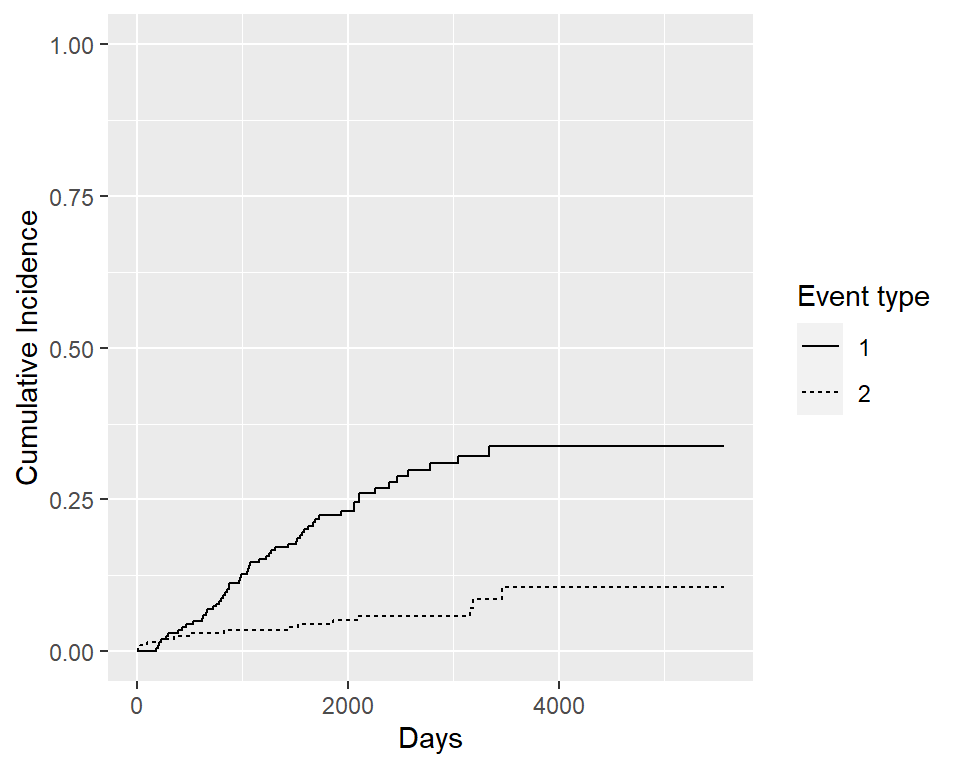
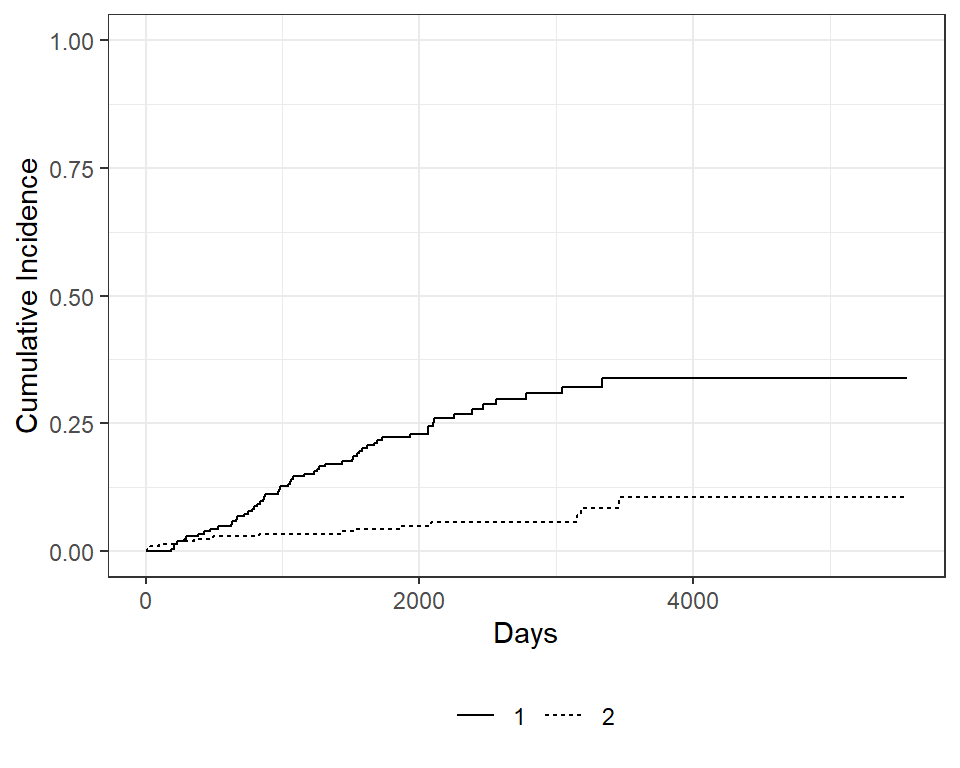
fixing a typo

diff --git a/survival_analysis_in_r_tutorial.html b/survival_analysis_in_r_tutorial.html
@@ -520,6 +520,7 @@ class="math inline">\(S(t_0) = 1\)</span>.</p>
 <p>In this section, we will use the following packages:</p>
 <pre class="r"><code># install.packages(c(&quot;survival&quot;, &quot;lubridate&quot;, &quot;ggsurvfit&quot;, &quot;gtsummary&quot;, &quot;tidycmprsk&quot;))
 # remotes::install_github(&quot;zabore/condsurv&quot;)
+# remotes::install_github(&quot;zabore/ezfun&quot;)
 library(survival)
 library(lubridate)
 library(ggsurvfit)
@@ -698,14 +699,17 @@ for details.</p>
 base R or the {survminer} package.</p>
 <p>The {ggsurvfit} package works best if you create the
 <code>survfit</code> object using the included
-<code>ggsurvfit::survfit2()</code> function, which uses similar syntax
-to what we saw previously with <code>survival::survfit()</code>.</p>
+<code>ggsurvfit::survfit2()</code> function, which uses the same syntax
+to what we saw previously with <code>survival::survfit()</code>. The
+<code>ggsurvfit::survfit2()</code> tracks the environment from the
+function call, which allows the plot to have better default values for
+labeling and p-value reporting.</p>
 <pre class="r"><code>survfit2(Surv(time, status) ~ 1, data = lung) %&gt;% 
   ggsurvfit() +
   labs(
     x = &quot;Days&quot;,
     y = &quot;Overall survival probability&quot;
-    )</code></pre>
+  )</code></pre>
 <p><img src="survival_analysis_in_r_tutorial_files/figure-html/unnamed-chunk-4-1.png" width="480" /></p>
 <p>The default plot in <code>ggsurvfit()</code> shows the step function
 only. We can add the confidence interval using
@@ -715,12 +719,12 @@ only. We can add the confidence interval using
   labs(
     x = &quot;Days&quot;,
     y = &quot;Overall survival probability&quot;
-    ) + 
+  ) + 
   add_confidence_interval()</code></pre>
 <p><img src="survival_analysis_in_r_tutorial_files/figure-html/unnamed-chunk-5-1.png" width="480" /></p>
 <p>Typically we will also want to see the numbers at risk in a table
 below the x-axis. We can add this using
-<code>add_risk_table()</code>:</p>
+<code>add_risktable()</code>:</p>
 <pre class="r"><code>survfit2(Surv(time, status) ~ 1, data = lung) %&gt;% 
   ggsurvfit() +
   labs(
@@ -785,7 +789,7 @@ package:</p>
 <pre class="r"><code>survfit(Surv(time, status) ~ 1, data = lung) %&gt;% 
   tbl_survfit(
     times = 365.25,
-    label_header = &quot;1-year survival (95% CI)&quot;
+    label_header = &quot;**1-year survival (95% CI)**&quot;
   )</code></pre>
 <div id="thodvqsjjd" style="overflow-x:auto;overflow-y:auto;width:auto;height:auto;">
 <style>html {
@@ -1197,7 +1201,7 @@ package:</p>
   <thead class="gt_col_headings">
     <tr>
       <th class="gt_col_heading gt_columns_bottom_border gt_left" rowspan="1" colspan="1" scope="col"><strong>Characteristic</strong></th>
-      <th class="gt_col_heading gt_columns_bottom_border gt_center" rowspan="1" colspan="1" scope="col">1-year survival (95% CI)</th>
+      <th class="gt_col_heading gt_columns_bottom_border gt_center" rowspan="1" colspan="1" scope="col"><strong>1-year survival (95% CI)</strong></th>
     </tr>
   </thead>
   <tbody class="gt_table_body">
@@ -1253,7 +1257,7 @@ package:</p>
 <pre class="r"><code>survfit(Surv(time, status) ~ 1, data = lung) %&gt;% 
   tbl_survfit(
     probs = 0.5,
-    label_header = &quot;Median survival (95% CI)&quot;
+    label_header = &quot;**Median survival (95% CI)**&quot;
   )</code></pre>
 <div id="mpqwnvornv" style="overflow-x:auto;overflow-y:auto;width:auto;height:auto;">
 <style>html {
@@ -1665,7 +1669,7 @@ package:</p>
   <thead class="gt_col_headings">
     <tr>
       <th class="gt_col_heading gt_columns_bottom_border gt_left" rowspan="1" colspan="1" scope="col"><strong>Characteristic</strong></th>
-      <th class="gt_col_heading gt_columns_bottom_border gt_center" rowspan="1" colspan="1" scope="col">Median survival (95% CI)</th>
+      <th class="gt_col_heading gt_columns_bottom_border gt_center" rowspan="1" colspan="1" scope="col"><strong>Median survival (95% CI)</strong></th>
     </tr>
   </thead>
   <tbody class="gt_table_body">
@@ -3388,16 +3392,14 @@ death from melanoma:</p>
   add_confidence_interval() +
   add_risktable()</code></pre>
 <p><img src="survival_analysis_in_r_tutorial_files/figure-html/unnamed-chunk-33-1.png" width="480" /></p>
-<p>If we want to include both event types, we can call the
-<code>autoplot()</code> function from the {tidycmprsk} package:</p>
+<p>If we want to include both event types, specify the outcomes in the
+<code>ggcuminc(outcome=)</code> argument:</p>
 <pre class="r"><code>cuminc(Surv(time, status) ~ 1, data = Melanoma) %&gt;% 
-  autoplot(outcomes = c(&quot;1&quot;, &quot;2&quot;)) + 
+  ggcuminc(outcome = c(&quot;1&quot;, &quot;2&quot;)) +
+  ylim(c(0, 1)) + 
   labs(
-    x = &quot;Days&quot;,
-    y = &quot;Cumulative Incidence&quot;,
-    linetype = &quot;Event type&quot;
-  ) +
-  ylim(c(0, 1))</code></pre>
+    x = &quot;Days&quot;
+  )</code></pre>
 <p><img src="survival_analysis_in_r_tutorial_files/figure-html/unnamed-chunk-34-1.png" width="480" /></p>
 <p>Now let’s say we wanted to examine death from melanoma or other
 causes in the <code>Melanoma</code> data, according to
@@ -4842,7 +4844,8 @@ a continuous variable. The <code>sm.survival</code> function from the
 <code>sm</code> package allows you to do this for a quantile of the
 distribution of survival data. The default quantile is
 <code>p = 0.5</code> for median survival.</p>
-<pre class="r"><code>library(sm)
+<pre class="r"><code># install.packages(&quot;sm&quot;)
+library(sm)
 
 sm.options(
   list(
